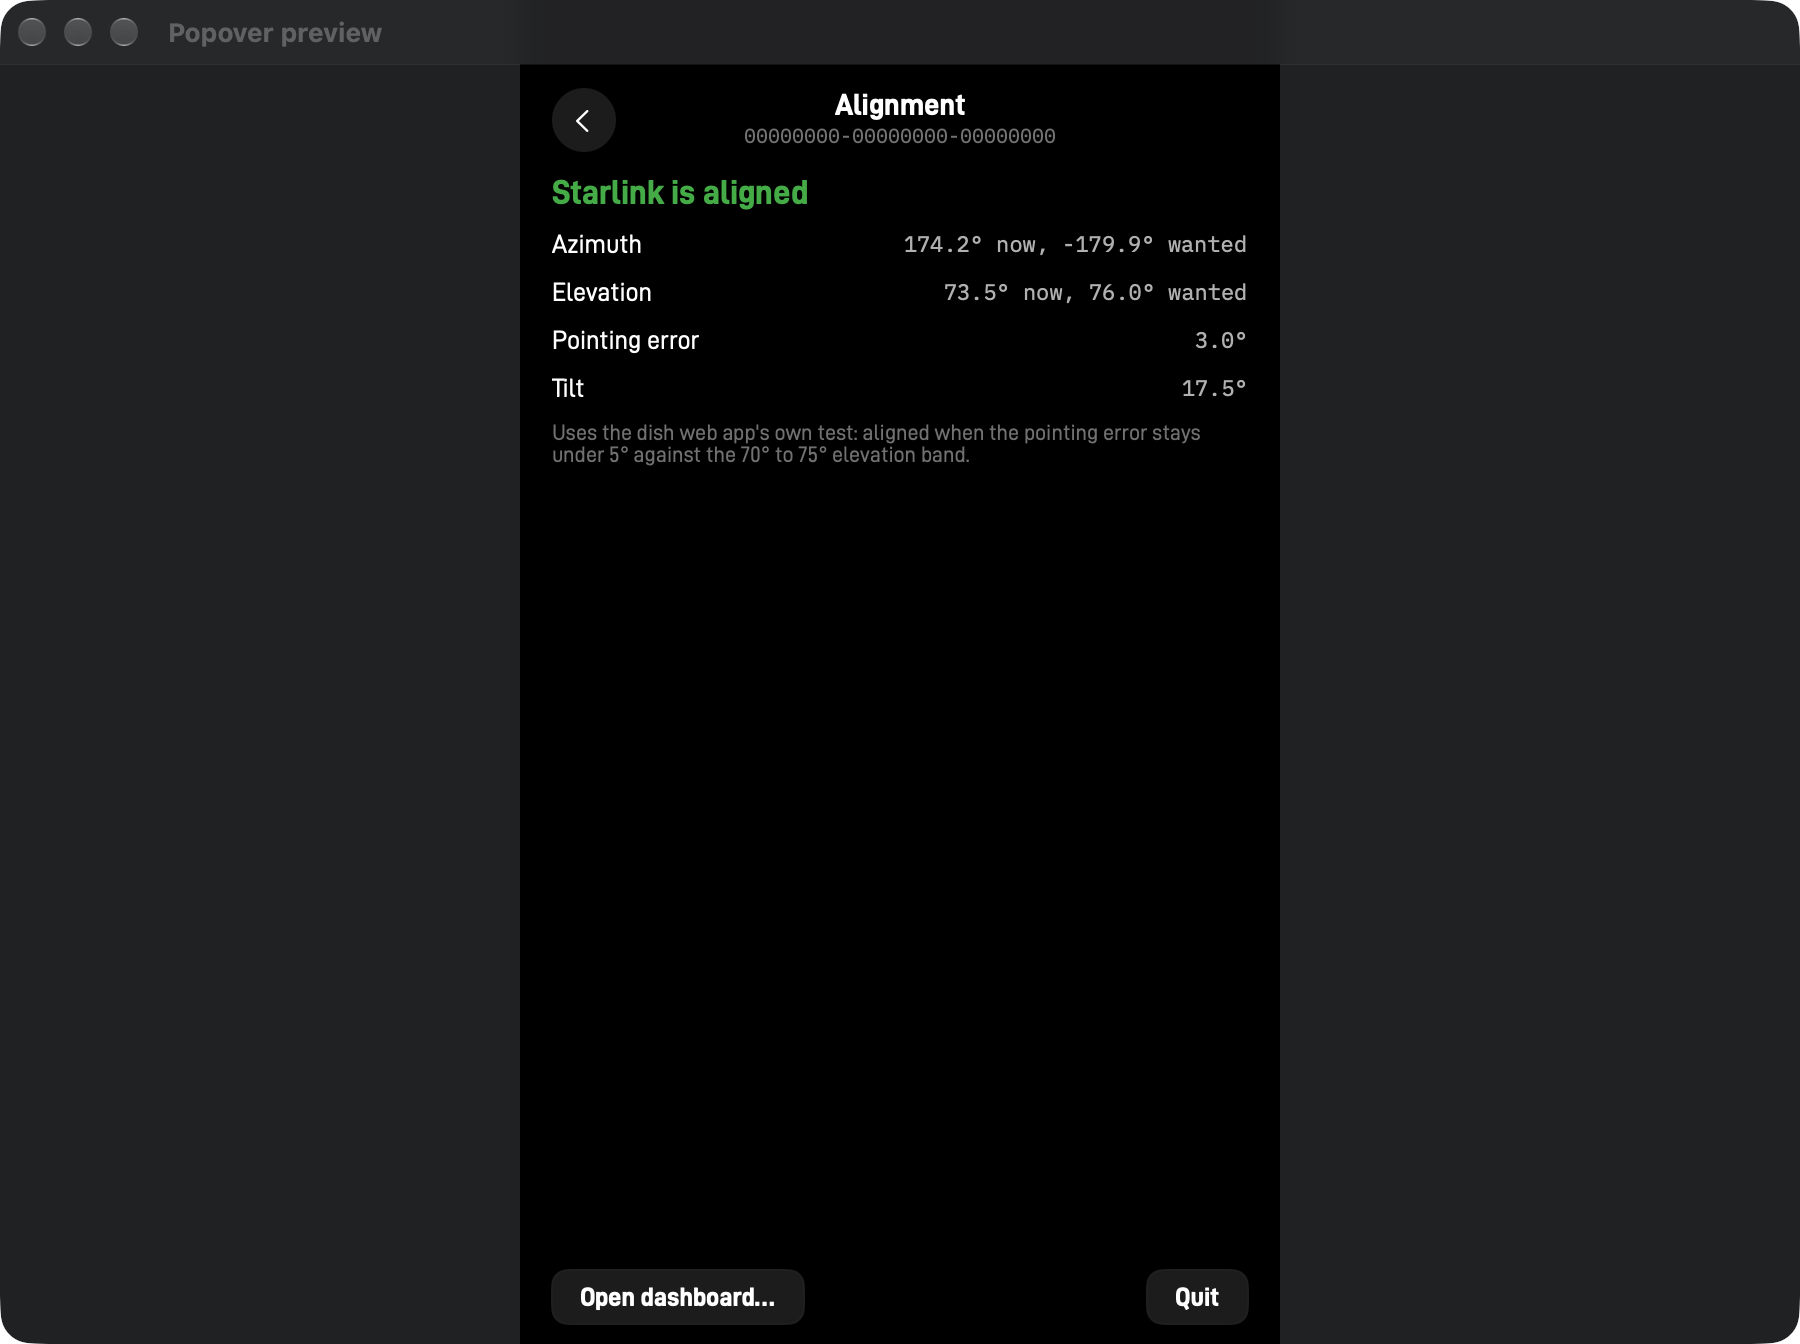
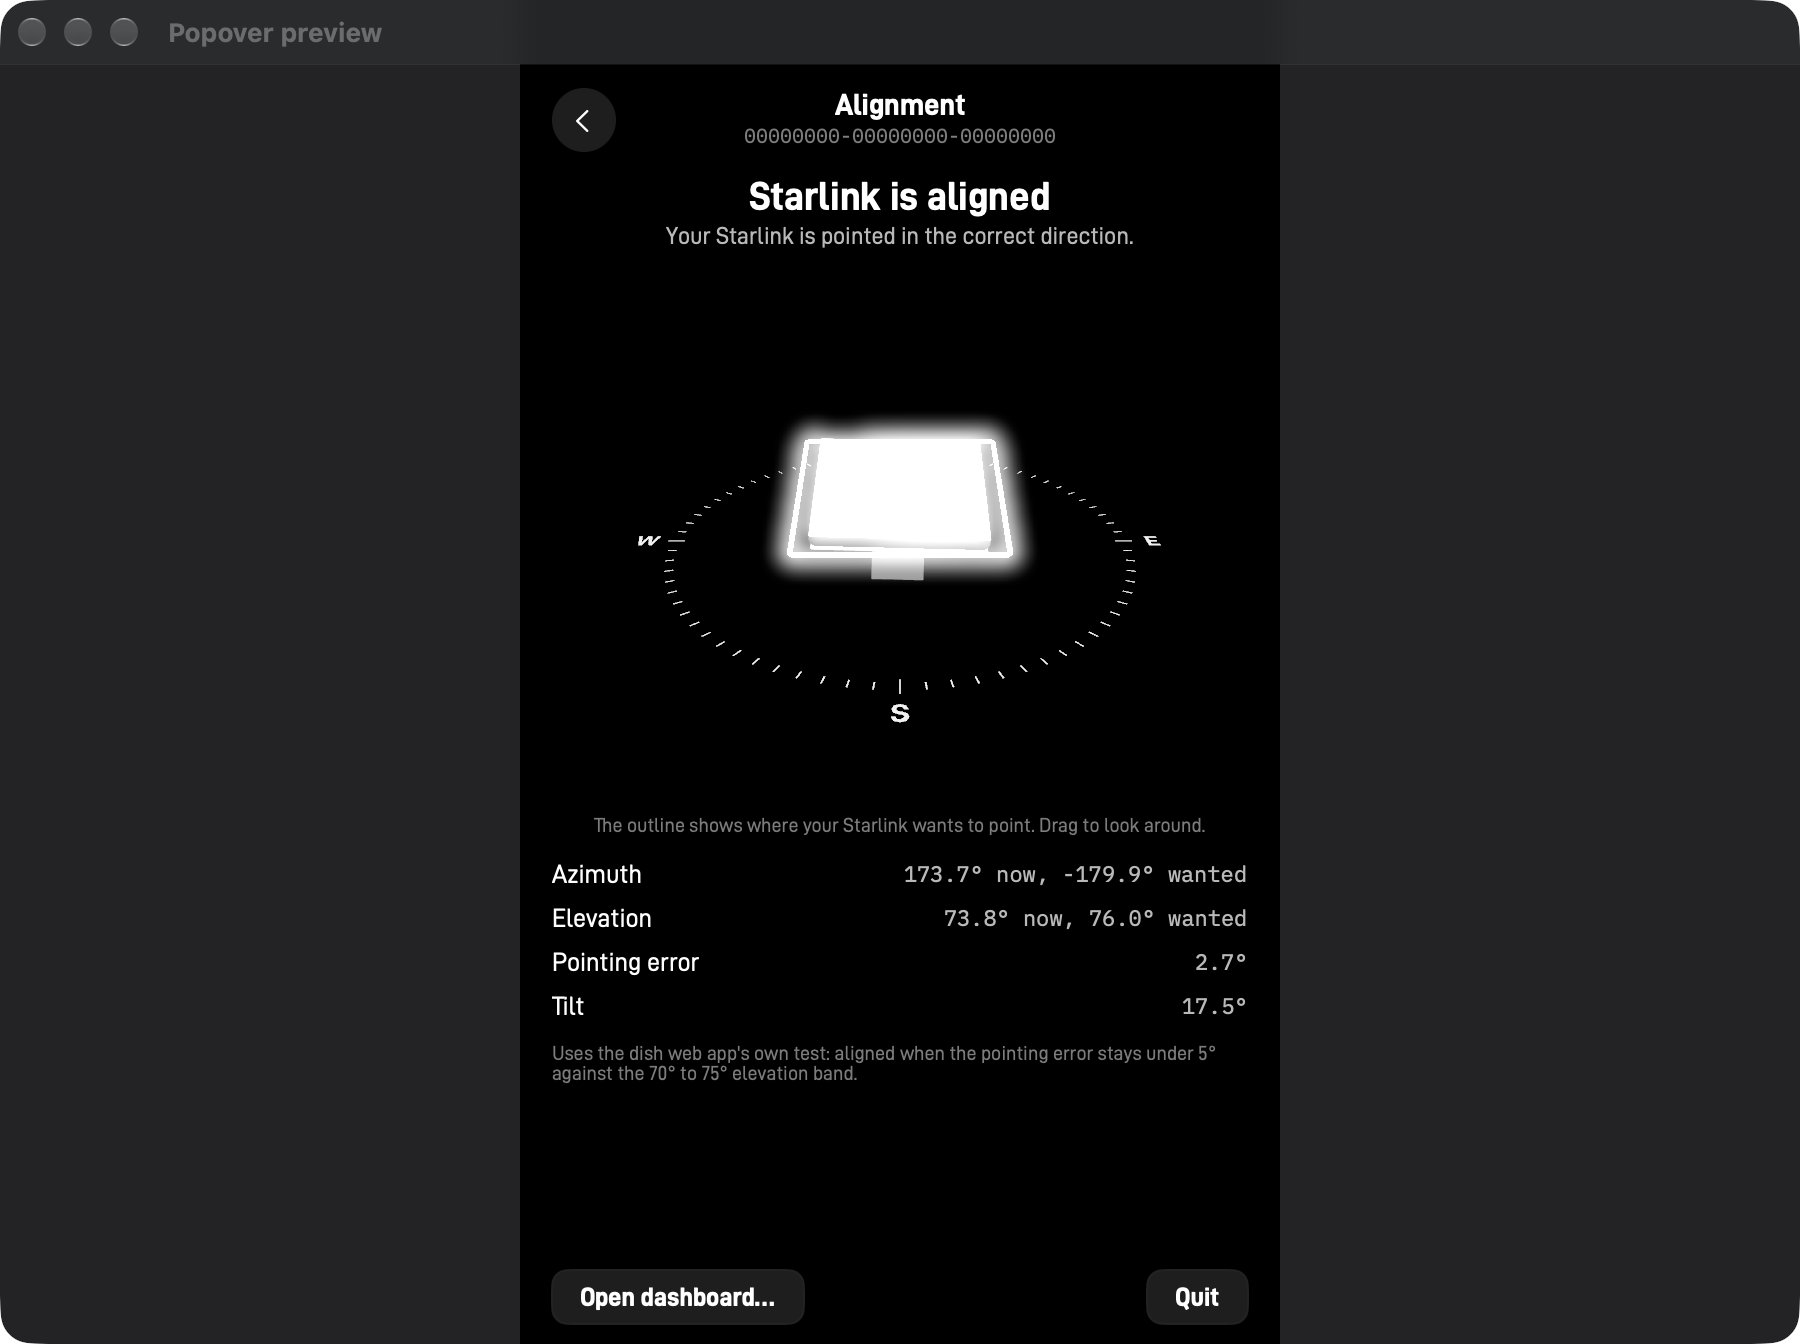
Alignment: 3D dish inside a glowing target outline, with turn and tilt advice
The dish's current and desired pointing come from get_status; the new
alignment scene mode draws the dish over the compass and the target as a
blooming frame. Misaligned dishes get plain steps (turn clockwise or
counterclockwise, tilt toward sky or horizon).

diff --git a/Sources/StarPulse/SkyScene.swift b/Sources/StarPulse/SkyScene.swift
@@ -9,7 +9,7 @@ import SwiftUI
 /// satellite. SceneKit supplies the depth buffer, so a dot behind the dish is hidden and one in front shows.
 /// Coordinates: y is up, x is east, -z is north; the dome radius is 1.
 struct SkySceneView: NSViewRepresentable {
-    enum Mode { case dome, sky }
+    enum Mode { case dome, sky, alignment }
 
     var mode: Mode
     var map: ObstructionMap?
@@ -17,6 +17,9 @@ struct SkySceneView: NSViewRepresentable {
     var boresightElevationDeg: Double
     var satellites: [SatelliteSky] = []
     var serving: SatelliteSky?
+    /// Alignment mode: where the dish wants to point, drawn as a glowing outline.
+    var target: (azimuthDeg: Double, elevationDeg: Double)?
+    var aligned = false
     var rotating: Bool
     @Environment(\.accessibilityReduceMotion) private var reduceMotion
 
@@ -27,6 +30,8 @@ struct SkySceneView: NSViewRepresentable {
         let dish = SCNNode()
         let satellites = SCNNode()
         let serving = SCNNode()
+        let target = SCNNode()
+        var lastTarget: [Double]?
         var lastMap: ObstructionMap?
         var lastBoresight: (Double, Double)?
     }
@@ -48,8 +53,12 @@ struct SkySceneView: NSViewRepresentable {
         view.defaultCameraController.maximumVerticalAngle = 85
 
         c.scene.rootNode.addChildNode(c.world)
-        [c.dome, c.dish, c.satellites, c.serving].forEach { c.world.addChildNode($0) }
-        c.world.addChildNode(Self.ground())
+        [c.dome, c.dish, c.satellites, c.serving, c.target].forEach { c.world.addChildNode($0) }
+        if mode == .alignment {
+            [c.dish, c.target].forEach { $0.scale = SCNVector3(1.6, 1.6, 1.6) }
+        } else {
+            c.world.addChildNode(Self.ground())
+        }
         c.world.addChildNode(Self.compass())
         if mode == .sky { c.scene.rootNode.addChildNode(Self.stars()) }
 
@@ -57,14 +66,25 @@ struct SkySceneView: NSViewRepresentable {
         camera.camera = SCNCamera()
         camera.camera?.fieldOfView = mode == .sky ? 48 : 38
         camera.camera?.zNear = 0.05
-        let distance: Float = mode == .sky ? 4.2 : 3.3
-        camera.position = SCNVector3(0, distance * 0.48, distance)
-        camera.look(at: SCNVector3(0, 0.25, 0))
+        let distance: Float = mode == .sky ? 4.2 : (mode == .alignment ? 3.2 : 3.3)
+        camera.position = SCNVector3(0, distance * (mode == .alignment ? 0.55 : 0.48), distance)
+        let focus = SCNVector3(0, mode == .alignment ? 0.05 : 0.25, 0)
+        camera.look(at: focus)
+        view.defaultCameraController.target = focus
+        if mode == .alignment {
+            // The target outline glows, as in the Starlink app.
+            camera.camera?.wantsHDR = true
+            // Only the outline's emission goes past 1.0, so the panel itself does not bloom.
+            camera.camera?.bloomIntensity = 1.4
+            camera.camera?.bloomThreshold = 1.0
+            camera.camera?.bloomBlurRadius = 8
+        }
         c.scene.rootNode.addChildNode(camera)
         view.pointOfView = camera
 
-        let ambient = SCNNode(); ambient.light = SCNLight(); ambient.light?.type = .ambient; ambient.light?.intensity = 350
-        let sun = SCNNode(); sun.light = SCNLight(); sun.light?.type = .directional; sun.light?.intensity = 900
+        // Alignment mode renders in HDR with bloom; softer light keeps the white panel below the glow threshold.
+        let ambient = SCNNode(); ambient.light = SCNLight(); ambient.light?.type = .ambient; ambient.light?.intensity = mode == .alignment ? 260 : 350
+        let sun = SCNNode(); sun.light = SCNLight(); sun.light?.type = .directional; sun.light?.intensity = mode == .alignment ? 520 : 900
         sun.eulerAngles = SCNVector3(-1.0, 0.6, 0)
         c.scene.rootNode.addChildNode(ambient); c.scene.rootNode.addChildNode(sun)
         updateNSView(view, context: context)
@@ -81,6 +101,12 @@ struct SkySceneView: NSViewRepresentable {
             c.lastBoresight = (boresightAzimuthDeg, boresightElevationDeg)
             c.dish.childNodes.forEach { $0.removeFromParentNode() }
             c.dish.addChildNode(Self.miniDish(azimuthDeg: boresightAzimuthDeg, elevationDeg: boresightElevationDeg))
+        }
+        let targetKey = target.map { [$0.azimuthDeg, $0.elevationDeg, aligned ? 1 : 0] }
+        if c.lastTarget != targetKey {
+            c.lastTarget = targetKey
+            c.target.childNodes.forEach { $0.removeFromParentNode() }
+            if let target { c.target.addChildNode(Self.targetOutline(azimuthDeg: target.azimuthDeg, elevationDeg: target.elevationDeg, aligned: aligned)) }
         }
         if mode == .sky {
             c.satellites.geometry = Self.satellitePoints(satellites)
@@ -176,12 +202,40 @@ struct SkySceneView: NSViewRepresentable {
         legNode.position = SCNVector3(0, -depth * 0.55, -length * 0.1)
         legNode.eulerAngles = SCNVector3(CGFloat.pi / 3.2, 0, 0)
         panel.addChildNode(legNode)
-        // Turn the face normal (+y) to the boresight.
-        let target = direction(azimuthDeg: azimuthDeg, elevationDeg: elevationDeg)
-        panel.simdOrientation = simd_quatf(from: SIMD3(0, 1, 0), to: simd_normalize(target))
-        panel.position = SCNVector3(0, 0.16, 0)
         let node = SCNNode()
-        node.addChildNode(panel)
+        node.addChildNode(pointed(panel, azimuthDeg: azimuthDeg, elevationDeg: elevationDeg))
+        return node
+    }
+
+    /// Turns a panel-shaped node's face normal (+y) to a direction and lifts it to the dish's height.
+    private static func pointed(_ panel: SCNNode, azimuthDeg: Double, elevationDeg: Double) -> SCNNode {
+        panel.simdOrientation = simd_quatf(from: SIMD3(0, 1, 0), to: simd_normalize(direction(azimuthDeg: azimuthDeg, elevationDeg: elevationDeg)))
+        panel.position = SCNVector3(0, 0.16, 0)
+        return panel
+    }
+
+    /// The pose the dish wants: a bright frame a little larger than the panel. White when the dish
+    /// is aligned (the frame then sits around the panel), orange when it needs adjusting.
+    static func targetOutline(azimuthDeg: Double, elevationDeg: Double, aligned: Bool) -> SCNNode {
+        let k: CGFloat = 0.5 / 0.2985
+        let width = 0.2985 * k * 1.18, length = 0.259 * k * 1.2, bar: CGFloat = 0.014
+        let color = aligned ? NSColor.white : NSColor(red: 1, green: 0.62, blue: 0.25, alpha: 1)
+        let material = SCNMaterial()
+        material.lightingModel = .constant
+        material.diffuse.contents = color
+        material.emission.contents = color
+        material.emission.intensity = 2.5
+        let frame = SCNNode()
+        for (w, l, x, z) in [(width, bar, 0.0, length / 2), (width, bar, 0.0, -length / 2),
+                             (bar, length, width / 2, 0.0), (bar, length, -width / 2, 0.0)] {
+            let box = SCNBox(width: w, height: bar, length: l, chamferRadius: bar / 2)
+            box.materials = [material]
+            let edge = SCNNode(geometry: box)
+            edge.position = SCNVector3(x, 0, z)
+            frame.addChildNode(edge)
+        }
+        let node = SCNNode()
+        node.addChildNode(pointed(frame, azimuthDeg: azimuthDeg, elevationDeg: elevationDeg))
         return node
     }
 

diff --git a/Sources/StarPulse/StatisticsViews.swift b/Sources/StarPulse/StatisticsViews.swift
@@ -107,26 +107,65 @@ struct AlignmentDetail: View {
     var reading: AlignmentReading?
 
     var body: some View {
-        VStack(alignment: .leading, spacing: 10) {
+        VStack(spacing: 12) {
             if let reading {
-                Text(summary(reading)).font(Theme.ui(17, .bold)).foregroundStyle(reading.isAligned ? Theme.good : Theme.warm)
-                row("Azimuth", "\(deg(reading.currentAzimuthDeg)) now, \(deg(reading.desiredAzimuthDeg)) wanted", "error \(signed(reading.azimuthErrorDeg))")
-                row("Elevation", "\(deg(reading.currentElevationDeg)) now, \(deg(reading.desiredElevationDeg)) wanted", "error \(signed(reading.elevationErrorDeg))")
-                row("Pointing error", deg(reading.boresightErrorDeg), "Angle between where the dish points and where it wants to point")
-                row("Tilt", deg(reading.tiltAngleDeg), "Plate tilt reported by the dish")
+                VStack(spacing: 4) {
+                    Text(title(reading)).font(Theme.ui(20, .bold)).foregroundStyle(Theme.ink)
+                    Text(subtitle(reading)).font(Theme.ui(12)).foregroundStyle(Theme.inkSecondary).multilineTextAlignment(.center)
+                }
+                .frame(maxWidth: .infinity)
+                SkySceneView(mode: .alignment, map: nil,
+                             boresightAzimuthDeg: reading.currentAzimuthDeg, boresightElevationDeg: reading.currentElevationDeg,
+                             target: reading.isValid ? (reading.desiredAzimuthDeg, reading.desiredElevationDeg) : nil,
+                             aligned: reading.isAligned, rotating: false)
+                    .frame(height: 260).clipShape(RoundedRectangle(cornerRadius: 12))
+                    .accessibilityLabel(reading.isAligned ? "Dish inside its target outline" : "Dish and the outline of where it should point")
+                Text("The outline shows where your Starlink wants to point. Drag to look around.")
+                    .font(Theme.ui(10)).foregroundStyle(Theme.inkMuted)
+                if reading.isValid, !reading.isAligned { advice(reading) }
+                VStack(spacing: 8) {
+                    row("Azimuth", "\(deg(reading.currentAzimuthDeg)) now, \(deg(reading.desiredAzimuthDeg)) wanted", "Compass direction the dish faces")
+                    row("Elevation", "\(deg(reading.currentElevationDeg)) now, \(deg(reading.desiredElevationDeg)) wanted", "Angle of the dish's aim above the horizon")
+                    row("Pointing error", deg(reading.boresightErrorDeg), "Angle between where the dish points and where it wants to point")
+                    row("Tilt", deg(reading.tiltAngleDeg), "Plate tilt reported by the dish")
+                }
                 Text("Uses the dish web app's own test: aligned when the pointing error stays under 5° against the 70° to 75° elevation band.")
-                    .font(Theme.ui(11)).foregroundStyle(Theme.inkMuted)
+                    .font(Theme.ui(10)).foregroundStyle(Theme.inkMuted).frame(maxWidth: .infinity, alignment: .leading)
             } else {
                 Text("Waiting for dish status.").font(Theme.ui(12)).foregroundStyle(Theme.inkSecondary)
             }
         }
     }
 
-    private func summary(_ reading: AlignmentReading) -> String {
-        reading.isValid ? (reading.isAligned ? "Starlink is aligned" : "Starlink is misaligned") : "Alignment unavailable"
+    private func title(_ reading: AlignmentReading) -> String {
+        reading.isValid ? (reading.isAligned ? "Starlink is aligned" : "Starlink needs adjusting") : "Alignment unavailable"
     }
+
+    private func subtitle(_ reading: AlignmentReading) -> String {
+        if !reading.isValid { return "The dish has not settled on a position yet. Try again in a few minutes." }
+        return reading.isAligned ? "Your Starlink is pointed in the correct direction." : "Move it into the outline for the best signal."
+    }
+
+    /// Plain steps for a manually mounted dish; motorised kits move on their own.
+    private func advice(_ reading: AlignmentReading) -> some View {
+        let turn = reading.turnClockwiseDeg, raise = reading.raiseFaceDeg
+        return VStack(alignment: .leading, spacing: 6) {
+            if abs(turn) >= 1 {
+                Label(String(format: "Turn it %.0f° %@, seen from above.", abs(turn), turn > 0 ? "clockwise" : "counterclockwise"),
+                      systemImage: turn > 0 ? "arrow.clockwise" : "arrow.counterclockwise")
+            }
+            if abs(raise) >= 1 {
+                Label(String(format: "Tilt the face %.0f° %@.", abs(raise), raise > 0 ? "toward the sky" : "toward the horizon"),
+                      systemImage: raise > 0 ? "arrow.up" : "arrow.down")
+            }
+        }
+        .font(Theme.ui(12, .medium)).foregroundStyle(Theme.warm)
+        .frame(maxWidth: .infinity, alignment: .leading)
+        .padding(10)
+        .overlay(RoundedRectangle(cornerRadius: 10).stroke(Theme.hairline))
+    }
+
     private func deg(_ value: Double) -> String { String(format: "%.1f°", value) }
-    private func signed(_ value: Double) -> String { String(format: "%+.1f°", value) }
 
     private func row(_ label: String, _ value: String, _ help: String) -> some View {
         HStack {

diff --git a/Tests/StarPulseCoreTests/DishDecoderTests.swift b/Tests/StarPulseCoreTests/DishDecoderTests.swift
@@ -227,3 +227,14 @@ private func response(field: Int, _ build: (inout ProtoWriter) -> Void) -> [UInt
     let samples = DishDecoder.unrollRing(current: UInt64.max, drop: [0, 0], latency: [20, 30], down: [], up: [], power: [], now: Date())
     #expect(samples.count == 2)
 }
+
+// Manual mounts: positive turn is clockwise seen from above (azimuth grows N→E); positive tilt raises the face.
+@Test func alignmentAdviceTurnsTowardTheTarget() {
+    var status = DishStatus()
+    status.attitudeState = 1
+    status.desiredAzimuthDeg = 20; status.desiredElevationDeg = 72
+    status.boresightAzimuthDeg = 350; status.boresightElevationDeg = 66
+    let reading = AlignmentMath.compute(status)
+    #expect(abs(reading.turnClockwiseDeg - 30) < 1e-9)   // 350° → 20° the short way is 30° clockwise
+    #expect(abs(reading.raiseFaceDeg - 6) < 1e-9)
+}

diff --git a/Sources/StarPulseCore/Alignment.swift b/Sources/StarPulseCore/Alignment.swift
@@ -15,6 +15,13 @@ public struct AlignmentReading: Sendable, Equatable {
     public var tiltAngleDeg: Double
 }
 
+extension AlignmentReading {
+    /// How far to turn the dish, clockwise seen from above (azimuth grows N→E); negative is counterclockwise.
+    public var turnClockwiseDeg: Double { -azimuthErrorDeg }
+    /// How far to raise the face toward the sky; negative lowers it toward the horizon.
+    public var raiseFaceDeg: Double { -elevationErrorDeg }
+}
+
 /// The dish web app's own alignment test, ported from Dishylink
 /// src/components/alignment/alignmentMath.ts (MIT). Not an interpretation: "aligned"
 /// is one of three conditions on great-circle separation against a 70°..band-top

diff --git a/docs/screens.md b/docs/screens.md
@@ -72,8 +72,11 @@ so this is an estimate.
 
 ![Alignment](images/alignment.png)
 
-Azimuth and elevation now and as wanted by the dish, pointing error and tilt. It uses the same rule
-as the dish's web app: aligned while the pointing error stays under 5°.
+A 3D view in the style of the Starlink app: the dish at its current angle over a compass, inside a
+glowing outline of where it wants to point (white when aligned, orange when not). When it needs
+adjusting, StarPulse says how far to turn it and which way to tilt the face. Below, azimuth and
+elevation now and as wanted, pointing error and tilt. It uses the same rule as the dish's web app:
+aligned while the pointing error stays under 5°.
 
 ## Speed test
 
